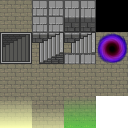
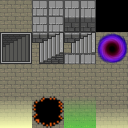
Added the actual pit and text boxes to the room with the pit

Changed region(s): [[0.75, 0.75, 1.0, 1.0], [0.25, 0.75, 0.5, 1.0]]

diff --git a/main.js b/main.js
@@ -18,6 +18,7 @@ var DOWN = 4;
 var UP = 5;
 var NEXT_LEVEL = 7;
 var GAME_EXIT = 12;
+var PIT = 13;
 
 var P_UP = 3;     /* Directions for the player */
 var P_DOWN = 0;
@@ -299,20 +300,41 @@ Player = Class.create(Sprite, {
    /* Add a text box if the player is standing on an item */
    checkTextBox: function() {
       var tileContents = map.items.checkTile(this.x, this.y);
+      var nextToPit = map.checkTile(this.x + GRID, this.y) == PIT ||
+                      map.checkTile(this.x - GRID, this.y) == PIT ||
+                      map.checkTile(this.x, this.y + GRID) == PIT ||
+                      map.checkTile(this.x, this.y - GRID) == PIT;
+      var nextToExit = map.checkTile(this.x, this.y + GRID) == GAME_EXIT;
       
-      if (curScene.lastChild == player && (tileContents >= 7 && tileContents < 21 || tileContents == ORB))
-         curScene.addChild(new TextBox(this.y/GRID, tileContents));
-      else if (curScene.lastChild != player && tileContents < 0)
+      if (curScene.lastChild != player && tileContents < 0 && !(nextToPit && player.hasOrb) && !nextToExit)
          curScene.removeChild(curScene.lastChild);
-      else if (curScene.lastChild != player && (tileContents >= 7 && tileContents < 21 || tileContents == ORB))
+      /* Related to being next to a tile */
+      else if (nextToPit && player.hasOrb) {
+         if (curScene.lastChild == player)
+            curScene.addChild(new TextBox(this.y/GRID));
+         curScene.lastChild.customText("Throw the pearl in the pit?<br> <br> Press M to throw the pearl in the pit");
+      }
+      else if (nextToExit) {
+         if (curScene.lastChild == player)
+            curScene.addChild(new TextBox(this.y/GRID));
+         if (player.hasOrb)
+            curScene.lastChild.customText("Proceed to leave with the pearl");
+         else
+            curScene.lastChild.customText("Proceed to leave without the pearl");
+      }
+      /* Related to items the player is standing on */
+      else if (tileContents >= 7 && tileContents < 21 || tileContents == ORB) {
+         if (curScene.lastChild == player)
+            curScene.addChild(new TextBox(this.y/GRID, tileContents));
          curScene.lastChild.changeText(tileContents);
+      }
    },
    
    /* Process item pickups */
    checkItem: function() {
       var tileContents = map.items.checkTile(this.x, this.y);
       
-      if (this.cooldown == 0 && game.input.swapItem || tileContents == POTION || tileContents == KEY) {
+      if (this.cooldown == 0 && game.input.swapItem && !map.pitRoom || tileContents == POTION || tileContents == KEY) {
          game.processPickup(tileContents);
          metrics.str = player.strength;
          metrics.def = player.defense;
@@ -330,6 +352,15 @@ Player = Class.create(Sprite, {
             metrics.maxHealth = player.health;
             
          this.cooldown = 5;
+      }
+      else if (map.pitRoom && game.input.swapItem && player.hasOrb &&
+               (map.checkTile(this.x + GRID, this.y) == PIT ||
+               map.checkTile(this.x - GRID, this.y) == PIT ||
+               map.checkTile(this.x, this.y + GRID) == PIT ||
+               map.checkTile(this.x, this.y - GRID) == PIT)) {
+         var newSound = game.assets['assets/sounds/swap.wav'].clone();
+         newSound.play();
+         player.hasOrb = false;        
       }
       else if (this.cooldown > 0)
          this.cooldown--;
@@ -563,6 +594,9 @@ Room = Class.create(Map, {
       this.xRoom = x;
       this.yRoom = y;
       this.zRoom = z;
+      
+      /* Used to determine allowed player actions for the room with the pit */
+      this.pitRoom = false;
       
       /* Metric helpers */
       this.stairsUsed = false;
@@ -914,10 +948,15 @@ Room = Class.create(Map, {
       this.tiles[this.wallS][(ROOM_WID_MAX-1)/2] = GAME_EXIT;
       this.collision[this.wallS][(ROOM_WID_MAX-1)/2] = 0;
       
+      this.tiles[this.wallN+2][(ROOM_WID_MAX-1)/2] = PIT;
+      this.collision[this.wallN+2][(ROOM_WID_MAX-1)/2] = 1;
+      
       this.loadData(this.tiles);
       this.collisionData = this.collision;
       this.items.loadData(this.items.tiles);
       this.chests.loadData(this.chests.tiles);
+      
+      this.pitRoom = true;
    }
    
 });

diff --git a/adapt.js b/adapt.js
@@ -354,6 +354,8 @@ var metrics = new function() {
       clearInterval(this.clockOrb);
       
       var maxTime = 120;   /* The cap orb-held-time to prevent dramatic changes */
+      /* If the no strong enemies, fast enemies, or stairs were seen in the level,
+       * set the ratio to 1/2 by default */
       if (this.totalStrongEnemies == 0) {
          this.totalStrongEnemies = 2;
          this.strongEnemyKills = 1;
